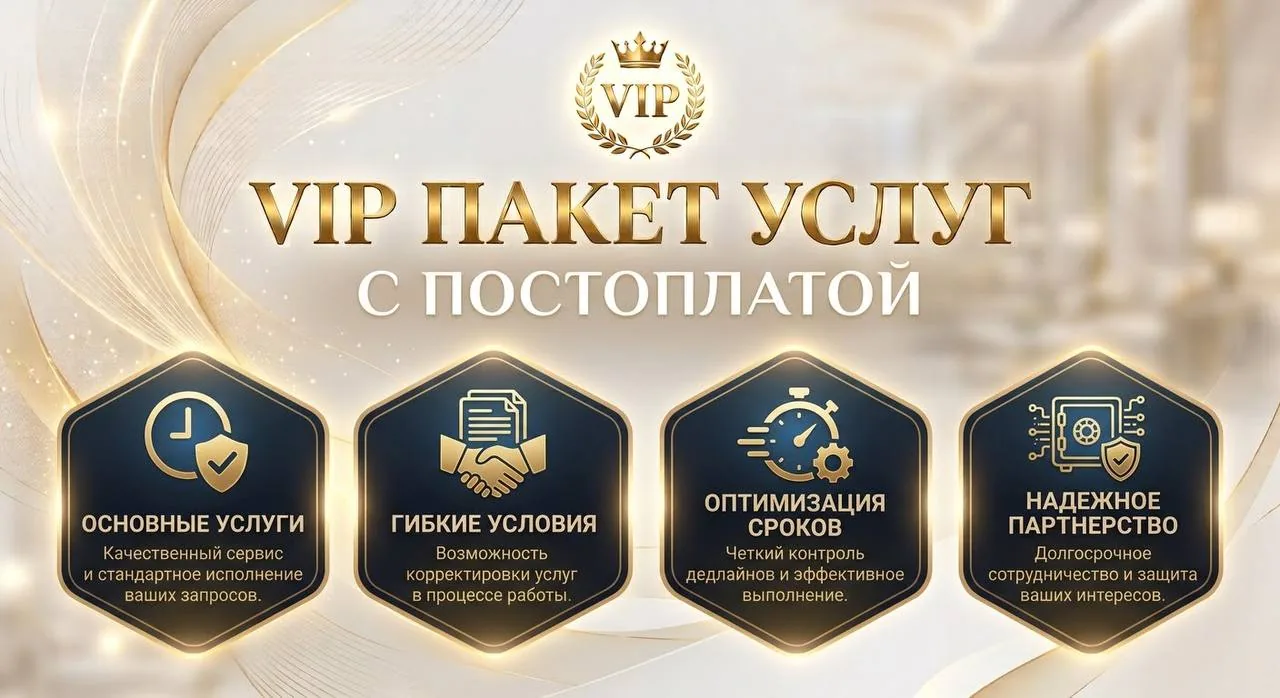
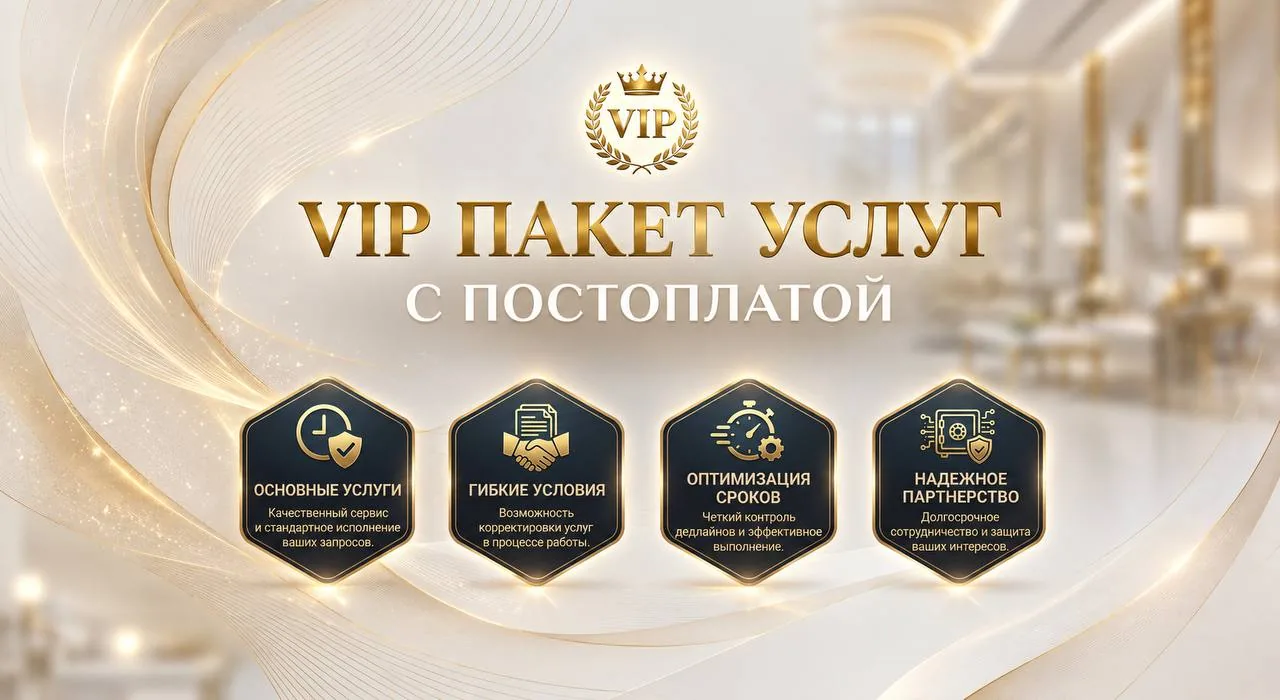
Block checkout when cart has both package and covered services.

diff --git a/frontend/src/CartContext.jsx b/frontend/src/CartContext.jsx
@@ -55,6 +55,28 @@ export function CartProvider({ children }) {
     [services],
   )
 
+  const hasPackageServiceOverlap = useMemo(() => {
+    const packageItems = cart.items.filter((item) => item.kind === 'package')
+    const serviceItems = cart.items.filter((item) => item.kind === 'service')
+    if (!packageItems.length || !serviceItems.length) return false
+
+    const covered = new Set()
+    for (const other of services) {
+      if (other.slug === 'logistics-standard' || other.slug === 'logistics-multimodal') {
+        covered.add(other.id)
+      }
+    }
+    for (const item of packageItems) {
+      const pack = packages.find((entry) => entry.id === item.package)
+      if (!pack) continue
+      for (const service of pack.services || []) {
+        covered.add(service.id)
+      }
+    }
+
+    return serviceItems.some((item) => covered.has(item.service))
+  }, [cart.items, packages, services])
+
   const value = useMemo(
     () => ({
       cart,
@@ -65,6 +87,7 @@ export function CartProvider({ children }) {
       services,
       packages,
       servicesById,
+      hasPackageServiceOverlap,
       refresh,
       async addService(service, paymentType = '50') {
         const serviceId = typeof service === 'object' ? service.id : service
@@ -127,7 +150,7 @@ export function CartProvider({ children }) {
         return data
       },
     }),
-    [cart, packages, services, servicesById, toast, servicePayment, t],
+    [cart, packages, services, servicesById, hasPackageServiceOverlap, toast, servicePayment, t],
   )
 
   return <CartContext.Provider value={value}>{children}</CartContext.Provider>

diff --git a/frontend/src/pages/Cart.jsx b/frontend/src/pages/Cart.jsx
@@ -1,11 +1,23 @@
-import { Link } from 'react-router-dom'
+import { Link, useNavigate } from 'react-router-dom'
 import { useCart } from '../CartContext'
 import { useLocale } from '../i18n/LocaleContext'
 import { localizeCartItemName } from '../i18n/content'
 
 export default function Cart() {
-  const { cart, updateItem, removeItem, clear, servicesById } = useCart()
+  const { cart, updateItem, removeItem, clear, servicesById, hasPackageServiceOverlap, setToast } =
+    useCart()
   const { t, money, lang } = useLocale()
+  const navigate = useNavigate()
+
+  function handleCheckout(event) {
+    event.preventDefault()
+    if (!cart.items.length) return
+    if (hasPackageServiceOverlap) {
+      setToast(t('cart.servicesInPackage'))
+      return
+    }
+    navigate('/checkout', { viewTransition: true })
+  }
 
   return (
     <section className="section">
@@ -45,7 +57,15 @@ export default function Cart() {
             {money(cart.total)} <span aria-hidden="true">*</span>
           </p>
           <p className="muted">{t('cart.note')}</p>
-          <Link to="/checkout" className={`btn btn-gold ${cart.items.length ? '' : 'disabled'}`} viewTransition>
+          {hasPackageServiceOverlap && (
+            <p className="cart-conflict">{t('cart.servicesInPackage')}</p>
+          )}
+          <Link
+            to="/checkout"
+            className={`btn btn-gold ${cart.items.length ? '' : 'disabled'}`}
+            viewTransition
+            onClick={handleCheckout}
+          >
             {t('cart.checkout')}
           </Link>
           {cart.items.length > 0 && (

diff --git a/frontend/src/pages/Checkout.jsx b/frontend/src/pages/Checkout.jsx
@@ -20,7 +20,7 @@ const initial = {
 }
 
 export default function Checkout() {
-  const { cart, refresh, servicesById } = useCart()
+  const { cart, refresh, servicesById, hasPackageServiceOverlap, setToast } = useCart()
   const { t, money, lang } = useLocale()
   const navigate = useNavigate()
   const [form, setForm] = useState(initial)
@@ -32,6 +32,12 @@ export default function Checkout() {
   function setField(name, value) {
     setForm((prev) => ({ ...prev, [name]: value }))
   }
+
+  useEffect(() => {
+    if (!hasPackageServiceOverlap) return
+    setToast(t('cart.servicesInPackage'))
+    navigate('/cart', { replace: true, viewTransition: true })
+  }, [hasPackageServiceOverlap, navigate, setToast, t])
 
   useEffect(() => {
     if (!confirmOpen) return undefined
@@ -100,13 +106,17 @@ export default function Checkout() {
     }
   }
 
-  if (!cart.items.length) {
+  if (!cart.items.length || hasPackageServiceOverlap) {
     return (
       <section className="section container">
         <h1>{t('checkout.title')}</h1>
-        <p>{t('checkout.empty')}</p>
-        <Link to="/services" className="btn btn-gold" viewTransition>
-          {t('checkout.toCatalog')}
+        <p>{hasPackageServiceOverlap ? t('cart.servicesInPackage') : t('checkout.empty')}</p>
+        <Link
+          to={hasPackageServiceOverlap ? '/cart' : '/services'}
+          className="btn btn-gold"
+          viewTransition
+        >
+          {hasPackageServiceOverlap ? t('cart.title') : t('checkout.toCatalog')}
         </Link>
       </section>
     )

diff --git a/frontend/src/i18n/messages.js b/frontend/src/i18n/messages.js
@@ -40,6 +40,8 @@ export const messages = {
     'cart.addedService': 'Услуга добавлена в корзину',
     'cart.addedPackage': 'Пакет добавлен в корзину',
     'cart.inPackage': '{name} уже входит в пакет «{pack}» в корзине',
+    'cart.servicesInPackage':
+      'Услуги уже входят в пакет. Уберите их из корзины, чтобы продолжить.',
     'route.label': 'Выберите тип маршрута',
     'route.standard': 'Стандартный',
     'route.standard.hint': 'прямой / 1 пересадка',
@@ -170,6 +172,8 @@ export const messages = {
     'cart.addedService': 'Service added to cart',
     'cart.addedPackage': 'Package added to cart',
     'cart.inPackage': '{name} is already included in the “{pack}” package in your cart',
+    'cart.servicesInPackage':
+      'These services are already included in the package. Remove them from the cart to continue.',
     'route.label': 'Choose route type',
     'route.standard': 'Standard',
     'route.standard.hint': 'direct / 1 stop',

diff --git a/frontend/src/index.css b/frontend/src/index.css
@@ -1251,6 +1251,17 @@ main {
   color: var(--navy);
 }
 
+.cart-conflict {
+  margin: 0;
+  padding: 10px 12px;
+  border-radius: 12px;
+  background: rgba(180, 60, 40, 0.08);
+  border: 1px solid rgba(180, 60, 40, 0.28);
+  color: #8a2f1f;
+  font-size: 0.92rem;
+  line-height: 1.4;
+}
+
 .summary {
   display: grid;
   gap: 12px;

diff --git a/backend/orders/views.py b/backend/orders/views.py
@@ -54,6 +54,26 @@ def payment_type_for_cart_item(item):
     return "50"
 
 
+def package_service_conflict(items):
+    """True if cart has both a package and standalone services already covered by it."""
+    package_items = [item for item in items if item.package_id]
+    service_items = [item for item in items if item.service_id]
+    if not package_items or not service_items:
+        return False
+
+    covered_ids = set()
+    logistics_ids = set(
+        Service.objects.filter(
+            slug__in=["logistics-standard", "logistics-multimodal"]
+        ).values_list("id", flat=True)
+    )
+    for item in package_items:
+        covered_ids.update(item.package.services.values_list("id", flat=True))
+        covered_ids.update(logistics_ids)
+
+    return any(item.service_id in covered_ids for item in service_items)
+
+
 class CartView(APIView):
     def get(self, request):
         ensure_session(request)
@@ -125,20 +145,6 @@ class PackageCartView(APIView):
         if logistics_route not in {"standard", "multimodal"}:
             return Response({"detail": "Некорректный тип маршрута."}, status=400)
 
-        # Если в корзине уже есть отдельные услуги из этого пакета,
-        # не позволяем добавить пакет и эти услуги вместе.
-        service_ids = list(package.services.values_list("id", flat=True))
-        logistics_ids = list(
-            Service.objects.filter(slug__in=["logistics-standard", "logistics-multimodal"]).values_list("id", flat=True)
-        )
-        conflict_ids = set(service_ids) | set(logistics_ids)
-        existing_service_item = cart_qs(request).filter(service_id__in=conflict_ids).first()
-        if existing_service_item and existing_service_item.service_id:
-            service_name = existing_service_item.service.name if existing_service_item.service else "Эта услуга"
-            return Response(
-                {"detail": f"Услуга «{service_name}» уже добавлена в корзину."},
-                status=409,
-            )
         session_key = ensure_session(request)
         user = request.user if request.user.is_authenticated else None
         item, created = CartItem.objects.get_or_create(
@@ -160,9 +166,19 @@ class CheckoutView(APIView):
     def post(self, request):
         serializer = CheckoutSerializer(data=request.data)
         serializer.is_valid(raise_exception=True)
-        items = list(cart_qs(request))
+        items = list(cart_qs(request).select_related("service", "package").prefetch_related("package__services"))
         if not items:
             return Response({"detail": "Корзина пуста."}, status=400)
+
+        if package_service_conflict(items):
+            return Response(
+                {
+                    "detail": (
+                        "Услуги уже входят в пакет. Уберите их из корзины, чтобы продолжить."
+                    )
+                },
+                status=409,
+            )
 
         total = sum((item.line_total for item in items), Decimal("0"))
         if total <= 0:

diff --git a/backend/catalog/management/commands/seed_data.py b/backend/catalog/management/commands/seed_data.py
@@ -198,26 +198,26 @@ PACKAGE_SERVICES = [
 
 PACKAGES = [
     {
-        "slug": "entry",
-        "name": "VIP All-Inclusive",
-        "price": "1190000.00",
-        "price_complex": "1330000.00",
-        "is_featured": False,
-        "sort_order": 1,
-        "services": PACKAGE_SERVICES,
-        "payment_terms": "50% предоплаты",
-        "payment_badges": [],
-        "description": "Включены все услуги из каталога.",
-    },
-    {
         "slug": "move",
         "name": "VIP All-Inclusive",
         "price": "850000.00",
         "price_complex": "950000.00",
         "is_featured": False,
-        "sort_order": 2,
+        "sort_order": 1,
         "services": PACKAGE_SERVICES,
         "payment_terms": "100% предоплаты",
+        "payment_badges": [],
+        "description": "Включены все услуги из каталога.",
+    },
+    {
+        "slug": "entry",
+        "name": "VIP All-Inclusive",
+        "price": "1190000.00",
+        "price_complex": "1330000.00",
+        "is_featured": False,
+        "sort_order": 2,
+        "services": PACKAGE_SERVICES,
+        "payment_terms": "50% предоплаты",
         "payment_badges": [],
         "description": "Включены все услуги из каталога.",
     },
